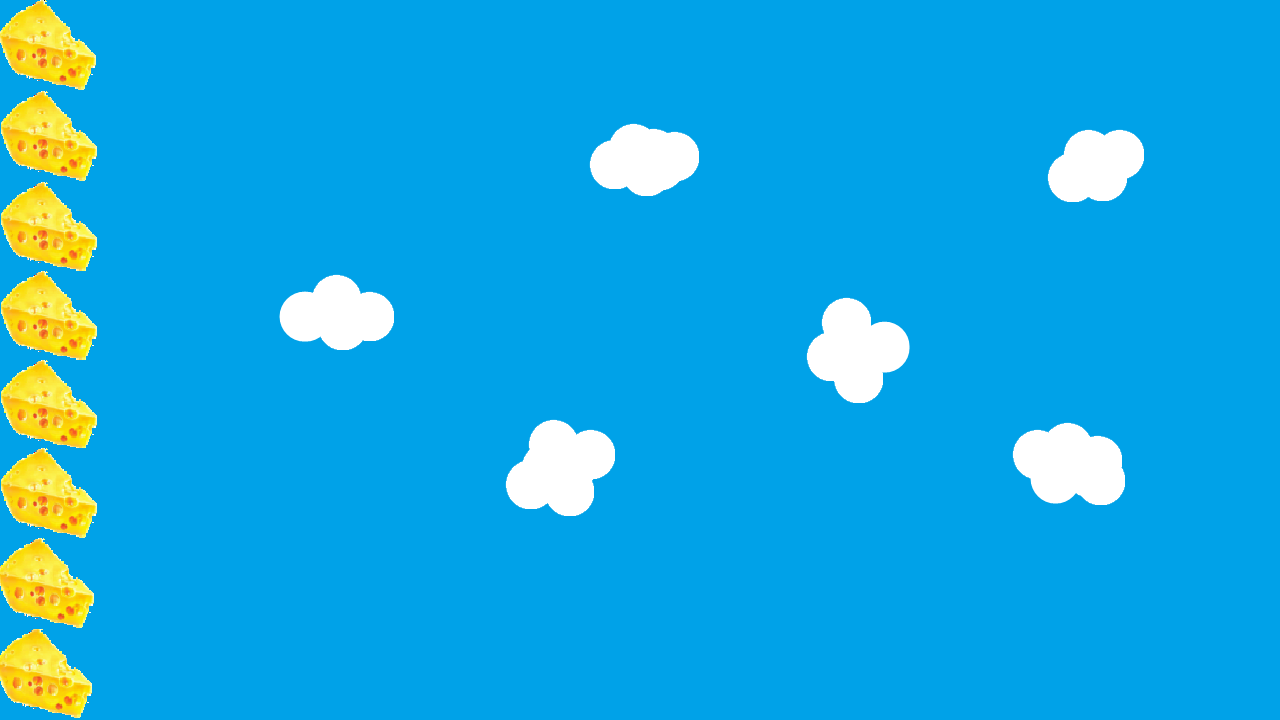
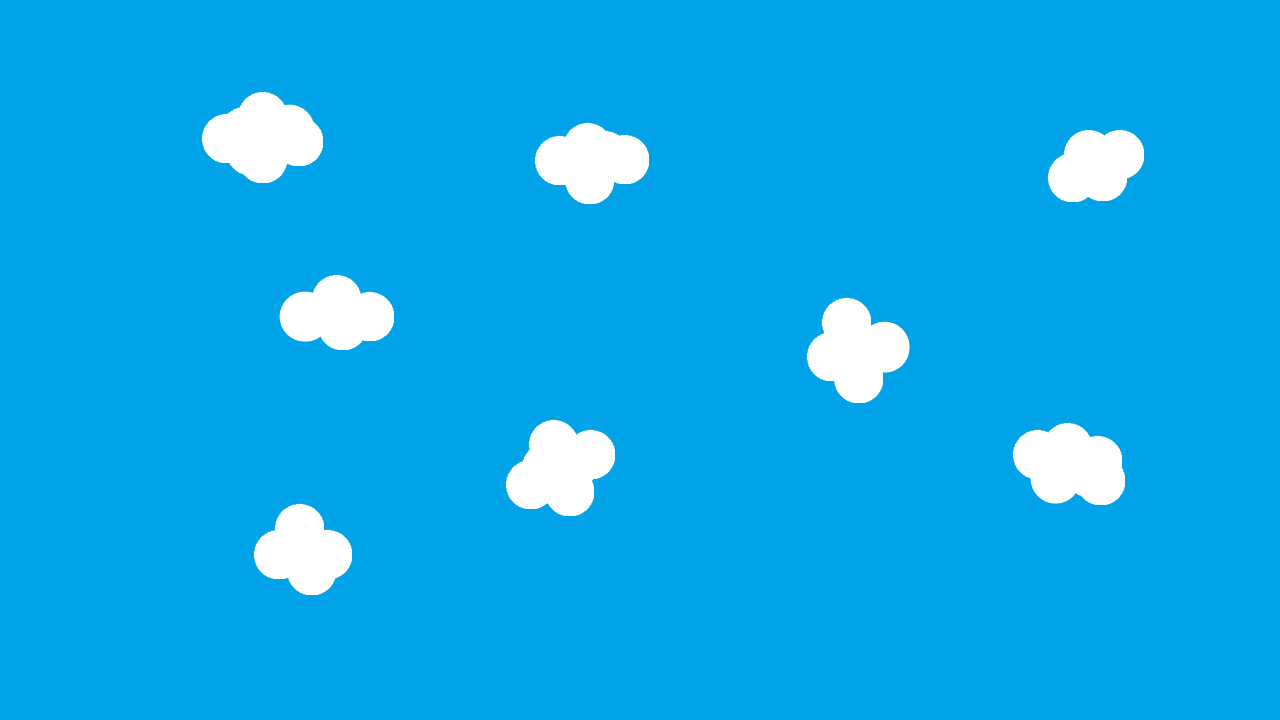
añadida la clase queso

diff --git a/Desktop/PracticaJuego/core/src/com/mygdx/game/GameScreen.java b/Desktop/PracticaJuego/core/src/com/mygdx/game/GameScreen.java
@@ -10,14 +10,19 @@ import com.badlogic.gdx.graphics.Texture;
 import com.badlogic.gdx.graphics.g2d.BitmapFont;
 import com.badlogic.gdx.graphics.g2d.GlyphLayout;
 import com.mygdx.game.Entidades.Disparo;
+import com.mygdx.game.Entidades.Queso;
 import com.mygdx.game.Entidades.Rata;
 
 import java.util.ArrayList;
+import java.util.Iterator;
 import java.util.Random;
+
+import sun.applet.Main;
 
 import static com.badlogic.gdx.Input.Keys;
 import static com.mygdx.game.Constantes.ALTO_PANTALLA;
-import static com.mygdx.game.Constantes.ALTO_RATA;
+
+import static com.mygdx.game.Constantes.ANCHO_PANTALLA;
 import static com.mygdx.game.Constantes.GRISACIUS_ALTO;
 import static com.mygdx.game.Constantes.GRISACIUS_ANCHO;
 import static com.mygdx.game.Constantes.MAX_RATAS;
@@ -25,6 +30,7 @@ import static com.mygdx.game.Constantes.MIN_RATAS;
 import static com.mygdx.game.Constantes.TIEMPO_DISPARO;
 import static com.mygdx.game.Constantes.VELOCIDAD_GRISACIUS;
 import static com.mygdx.game.Constantes.VELOCIDAD_RATA;
+import static com.mygdx.game.Entidades.Rata.ALTO_RATA;
 
 /**
  * Created by juana on 29/01/2018.
@@ -32,15 +38,15 @@ import static com.mygdx.game.Constantes.VELOCIDAD_RATA;
 
 class GameScreen implements Screen {
 
-    //CONSTANTES
 
     public Game game;
-    protected float grisaciusX, grisaciusY;
+    protected float grisaciusY, grisaciusX;
     protected float disparoTime;
     protected float statetime;
     float ratSpawnTimer;
     ArrayList<Disparo> disparos;
     ArrayList<Rata> ratas;
+    public static ArrayList<Queso>quesos;
     protected Texture grisacius;
 
     protected Random random;
@@ -49,11 +55,16 @@ class GameScreen implements Screen {
     public Sound ratHit;
     protected BitmapFont scoreFont;
     protected int score;
+    protected int posicionQuesos;
+
 
     public GameScreen(Game game) {
         this.game = game;
-        grisaciusY = 3;
         grisaciusX = 90;
+        grisaciusY = 3;
+        posicionQuesos=30;
+
+        quesos=new ArrayList<Queso>();
         disparos = new ArrayList<Disparo>();
         ratas = new ArrayList<Rata>();
         random = new Random();
@@ -73,6 +84,13 @@ class GameScreen implements Screen {
 
         bgMusic.play();
         bgMusic.setLooping(true);
+
+        for(int i=0;i<5;i++){
+            quesos.add(new Queso(posicionQuesos));
+            posicionQuesos+=(Queso.ALTO_QUESO+40);
+
+        }
+
 
     }
 
@@ -135,8 +153,15 @@ class GameScreen implements Screen {
                 }
             }
         }
+
+
+
+
+
+
         disparos.removeAll(disparosEliminar);
         ratas.removeAll(ratasEliminar);
+
         statetime += delta;
         // aumentamos dificultad segun pase el tiempo
         dificultad();
@@ -152,6 +177,10 @@ class GameScreen implements Screen {
         scoreFont.draw(MainGame.batch, scoreLayout, 900, 690);
 
         if (bgMusic.isLooping())
+
+            for(Queso queso:quesos){
+            queso.render(MainGame.batch);
+            }
 
 
             for (Disparo miau : disparos) {

diff --git a/Desktop/PracticaJuego/core/src/com/mygdx/game/Entidades/Rata.java b/Desktop/PracticaJuego/core/src/com/mygdx/game/Entidades/Rata.java
@@ -2,11 +2,8 @@ package com.mygdx.game.Entidades;
 
 import com.badlogic.gdx.graphics.Texture;
 import com.badlogic.gdx.graphics.g2d.SpriteBatch;
-import com.mygdx.game.Tools.compruebaColisiones;
-
-import static com.mygdx.game.Constantes.ALTO_RATA;
+import com.mygdx.game.Tools.CompruebaColisiones;
 import static com.mygdx.game.Constantes.ANCHO_PANTALLA;
-import static com.mygdx.game.Constantes.ANCHO_RATA;
 import static com.mygdx.game.Constantes.VELOCIDAD_RATA;
 
 
@@ -20,16 +17,19 @@ public class Rata {
 
 
     private static Texture texture;
+    public static int ANCHO_RATA = 60;
+    public static int ALTO_RATA = 65;
+
 
     float x, y;
 
-    compruebaColisiones colision;
+    CompruebaColisiones colision;
     public boolean remove = false;
 
     public Rata(float y) {
         this.y = y;
         this.x = ANCHO_PANTALLA;
-        this.colision = new compruebaColisiones(y, x, ALTO_RATA, ANCHO_RATA);
+        this.colision = new CompruebaColisiones(y, x, ALTO_RATA, ANCHO_RATA);
 
         if (texture == null)
             texture = new Texture("ratacartoon1.png");
@@ -40,6 +40,7 @@ public class Rata {
         if (x < -ANCHO_RATA)
             remove = true;
 
+
         colision.mover(x, y);
     }
 
@@ -47,7 +48,7 @@ public class Rata {
         batch.draw(texture, x, y, ANCHO_RATA, ALTO_RATA);
     }
 
-    public compruebaColisiones getColision() {
+    public CompruebaColisiones getColision() {
         return colision;
     }
 

diff --git a/Desktop/PracticaJuego/core/src/com/mygdx/game/Entidades/Disparo.java b/Desktop/PracticaJuego/core/src/com/mygdx/game/Entidades/Disparo.java
@@ -2,10 +2,8 @@ package com.mygdx.game.Entidades;
 
 import com.badlogic.gdx.graphics.Texture;
 import com.badlogic.gdx.graphics.g2d.SpriteBatch;
-import com.mygdx.game.Tools.compruebaColisiones;
+import com.mygdx.game.Tools.CompruebaColisiones;
 
-import static com.mygdx.game.Constantes.ALTO_DISPARO;
-import static com.mygdx.game.Constantes.ANCHO_DISPARO;
 import static com.mygdx.game.Constantes.ANCHO_PANTALLA;
 import static com.mygdx.game.Constantes.DEFAULT_X;
 import static com.mygdx.game.Constantes.VELOCIDAD_DISPARO;
@@ -17,16 +15,19 @@ import static com.mygdx.game.Constantes.VELOCIDAD_DISPARO;
 public class Disparo {
 
 
-    private static Texture texture;
+    private  Texture texture;
+    public  int ANCHO_DISPARO = 50;
+    public  int ALTO_DISPARO = 70;
+
 
     float x, y;
-    compruebaColisiones colision;
+    CompruebaColisiones colision;
     public boolean remove = false;
 
     public Disparo(float y) {
         this.y = y;
         this.x = DEFAULT_X;
-        this.colision = new compruebaColisiones(x, y, ANCHO_DISPARO, ALTO_DISPARO);
+        this.colision = new CompruebaColisiones(x, y, ANCHO_DISPARO, ALTO_DISPARO);
 
         if (texture == null)
             texture = new Texture("disparo.png");
@@ -44,7 +45,7 @@ public class Disparo {
         batch.draw(texture, x, y);
     }
 
-    public compruebaColisiones getColision() {
+    public CompruebaColisiones getColision() {
         return colision;
     }
 

diff --git a/Desktop/PracticaJuego/core/src/com/mygdx/game/Entidades/Queso.java b/Desktop/PracticaJuego/core/src/com/mygdx/game/Entidades/Queso.java
@@ -1,0 +1,48 @@
+package com.mygdx.game.Entidades;
+
+import com.badlogic.gdx.graphics.Texture;
+import com.badlogic.gdx.graphics.g2d.SpriteBatch;
+import com.mygdx.game.Tools.CompruebaColisiones;
+
+/**
+ * Created by juana on 31/01/2018.
+ */
+
+public class Queso {
+    public static int ALTO_QUESO=100;
+    public static int ANCHO_QUESO=80;
+    private static Texture texture;
+    public float x,y;
+    public CompruebaColisiones colision;
+    public boolean remove=false;
+
+
+    public Queso(float y){
+
+        this.x=1;
+        this.y=y;
+
+        if (texture == null)
+            texture = new Texture("queso.png");
+    }
+
+    public void update(float deltaTime,Rata rat){
+
+        if (rat.getX() < -rat.ANCHO_RATA)
+            remove = true;
+    }
+    public void render(SpriteBatch batch) {
+        batch.draw(texture, x, y, ANCHO_QUESO, ALTO_QUESO);
+    }
+
+    public float getX() {
+        return x;
+    }
+
+    public float getY() {
+        return y;
+    }
+
+
+
+}

diff --git a/Desktop/PracticaJuego/core/src/com/mygdx/game/Tools/CompruebaColisiones.java b/Desktop/PracticaJuego/core/src/com/mygdx/game/Tools/CompruebaColisiones.java
@@ -4,12 +4,12 @@ package com.mygdx.game.Tools;
  * Created by juana on 29/01/2018.
  */
 
-public class compruebaColisiones {
+public class CompruebaColisiones {
 
     float x, y;
     int ancho, alto;
 
-    public compruebaColisiones(float x, float y, int ancho, int alto) {
+    public CompruebaColisiones(float x, float y, int ancho, int alto) {
         this.x = x;
         this.y = y;
         this.ancho = ancho;
@@ -21,7 +21,7 @@ public class compruebaColisiones {
         this.y = y;
     }
 
-    public boolean chocadoCon(compruebaColisiones b) {
+    public boolean chocadoCon(CompruebaColisiones b) {
         return x < b.x + b.ancho && y < b.y + b.alto && x + ancho > b.x && y + alto > b.y;
     }
 }

diff --git a/Desktop/PracticaJuego/core/src/com/mygdx/game/Constantes.java b/Desktop/PracticaJuego/core/src/com/mygdx/game/Constantes.java
@@ -25,13 +25,10 @@ public class Constantes {
     // DISPAROS
     public static int VELOCIDAD_DISPARO = 1000;
     public static int DEFAULT_X = 40;
-    public static int ANCHO_DISPARO = 50;
-    public static int ALTO_DISPARO = 70;
 
     //RATA
     public static int VELOCIDAD_RATA = 150;
-    public static int ANCHO_RATA = 60;
-    public static int ALTO_RATA = 65;
+
 
     // FONDO ANIMADO
     public static int VELOCIDAD_DEFECTO = 80;

diff --git a/Desktop/PracticaJuego/core/src/com/mygdx/game/Tools/ScrollingBackground.java b/Desktop/PracticaJuego/core/src/com/mygdx/game/Tools/ScrollingBackground.java
@@ -18,7 +18,7 @@ public class ScrollingBackground {
 
     Texture image;
     float y1, y2;
-    int speed;//In pixels / second
+    int speed;
     int goalSpeed;
     float imageScale;
     boolean speedFixed;
